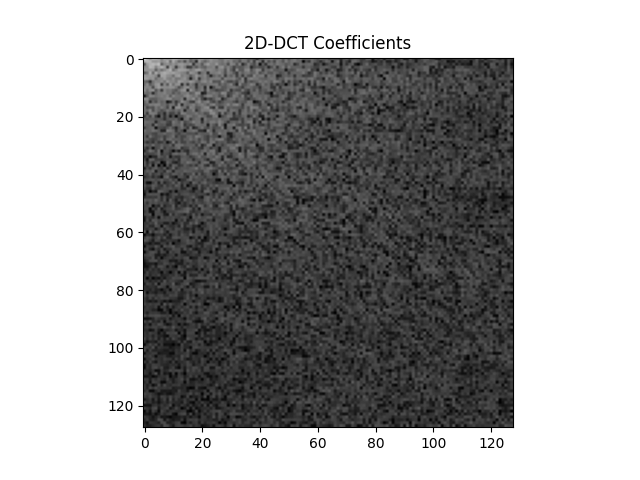
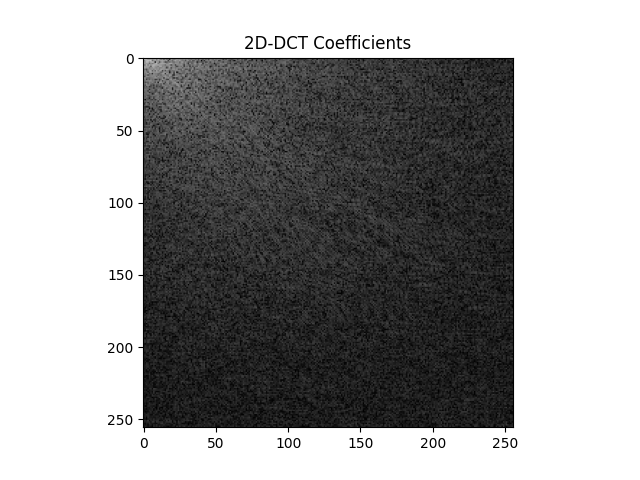
HW2: 2D-DCT & 1D-DCT & OpenCV (256*256)

Changed region(s): [[0.1562, 0.125, 0.8125, 0.9375]]

diff --git a/Homework/HW2/src/OpenCV.py b/Homework/HW2/src/OpenCV.py
@@ -1,0 +1,53 @@
+import numpy as np
+import cv2
+import matplotlib.pyplot as plt
+import time
+
+
+# Implement PSNR
+def psnr(original, reconstructed):
+    mse = np.mean((original - reconstructed) ** 2)
+    if mse == 0:
+        return float('inf')
+    max_pixel = 255.0
+    psnr_value = 20 * np.log10(max_pixel / np.sqrt(mse))
+
+    return psnr_value
+
+
+if __name__ == '__main__':
+    print("START!")
+
+    # 1. Load the image and convert to grayscale
+    print("1. Load the image and convert to grayscale...")
+    image = cv2.imread('image/lena.png', cv2.IMREAD_GRAYSCALE)
+    image = cv2.resize(image, (256, 256))
+    print("image.shape:", image.shape)
+    
+    if image is None:
+        raise ValueError(
+            "Image not found. Make sure 'lena.png' is in the current directory.")
+    cv2.imwrite('image/lena_original.png', image)
+
+    # 2. Apply OpenCV's DCT
+    print("2. Apply OpenCV's DCT...")
+    start_time = time.time()
+    dct_coefficients_opencv = cv2.dct(np.float32(image))
+    end_time = time.time()
+    print(f"OpenCV's DCT runtime: {end_time - start_time:.4f} seconds")
+    
+    log_dct_opencv = np.log(np.abs(dct_coefficients_opencv) + 1)
+    plt.imshow(log_dct_opencv, cmap='gray')
+    plt.title("OpenCV's DCT Coefficients")
+    plt.savefig('image/DCT_coefficients_OpenCV.png')
+    # plt.show()
+    
+    # 3. Apply OpenCV's IDCT
+    print("3. Apply OpenCV's IDCT...")
+    reconstructed_image_opencv = cv2.idct(np.float32(dct_coefficients_opencv))
+    cv2.imwrite('image/lena_reconstructed_OpenCV.png', reconstructed_image_opencv)
+    
+    psnr_value = psnr(image, reconstructed_image_opencv)
+    print(f'PSNR between original and reconstructed image (OpenCV): {psnr_value:.2f} dB')
+
+    print("END!")

diff --git a/Homework/HW2/src/1D-DCT.py b/Homework/HW2/src/1D-DCT.py
@@ -46,8 +46,7 @@ def idct_1d(vector):
         sum_val = 0
         for u in range(N):
             c_u = 1 / np.sqrt(2) if u == 0 else 1
-            sum_val += c_u * vector[u] * \
-                np.cos((2 * x + 1) * u * np.pi / (2 * N))
+            sum_val += c_u * vector[u] * np.cos((2 * x + 1) * u * np.pi / (2 * N))
 
         result[x] = np.sqrt(2 / N) * sum_val
 
@@ -88,6 +87,8 @@ if __name__ == '__main__':
     print("1. Load the image and convert to grayscale...")
     image = cv2.imread('image/lena.png', cv2.IMREAD_GRAYSCALE)
     image = cv2.resize(image, (256, 256))
+    print("image.shape:", image.shape)
+    
     if image is None:
         raise ValueError(
             "Image not found. Make sure 'lena.png' is in the current directory.")
@@ -116,21 +117,5 @@ if __name__ == '__main__':
     print("5. Calculate PSNR (1D)...")
     psnr_value = psnr(image, reconstructed_image_1d)
     print(f'PSNR between original and reconstructed image (1D): {psnr_value:.2f} dB')
-
-    # 6. Validate the output using OpenCV's DCT function
-    print("6. Validate the output using OpenCV's DCT function...")
-    start_time = time.time()
-    dct_coefficients_opencv = cv2.dct(np.float32(image))
-    end_time = time.time()
-    print(f"OpenCV's DCT runtime: {end_time - start_time:.4f} seconds")
-
-    log_dct_opencv = np.log(np.abs(dct_coefficients_opencv) + 1)
-    plt.imshow(log_dct_opencv, cmap='gray')
-    plt.title('DCT Coefficients (OpenCV)')
-    plt.savefig('image/DCT_coefficients_OpenCV.png')
-    # plt.show()
-    
-    reconstructed_image_opencv = cv2.idct(np.float32(dct_coefficients_opencv))
-    cv2.imwrite('lena_reconstructed_OpenCV.png', reconstructed_image_opencv)
 
     print("END!")

diff --git a/Homework/HW2/src/2D-DCT.py b/Homework/HW2/src/2D-DCT.py
@@ -11,7 +11,6 @@ def dct_2d(image):
     dct = np.zeros((M, N))
     
     for u in tqdm(range(M), desc='2D-DCT'):
-        print("u:", u)
         for v in range(N):
             sum_val = 0
             for x in range(M):
@@ -62,6 +61,8 @@ if __name__ == '__main__':
     print("1. Load the image and convert to grayscale...")
     image = cv2.imread('image/lena.png', cv2.IMREAD_GRAYSCALE)
     image = cv2.resize(image, (256, 256))
+    print("image.shape:", image.shape)
+    
     if image is None:
         raise ValueError(
             "Image not found. Make sure 'lena.png' is in the current directory.")
@@ -91,21 +92,5 @@ if __name__ == '__main__':
     print("5. Calculate PSNR (2D)...")
     psnr_value = psnr(image, reconstructed_image_2d)
     print(f'PSNR between original and reconstructed image (2D): {psnr_value:.2f} dB')
-    
-    # 6. Validate the output using OpenCV's DCT function
-    print("6. Validate the output using OpenCV's DCT function...")
-    start_time = time.time()
-    dct_coefficients_opencv = cv2.dct(np.float32(image))
-    end_time = time.time()
-    print(f"OpenCV's DCT runtime: {end_time - start_time:.4f} seconds")
-    
-    log_dct_opencv = np.log(np.abs(dct_coefficients_opencv) + 1)
-    plt.imshow(log_dct_opencv, cmap='gray')
-    plt.title('DCT Coefficients (OpenCV)')
-    plt.savefig('image/DCT_coefficients_OpenCV.png')
-    # plt.show()
-    
-    reconstructed_image_opencv = cv2.idct(np.float32(dct_coefficients_opencv))
-    cv2.imwrite('lena_reconstructed_OpenCV.png', reconstructed_image_opencv)
     
     print("END!")
